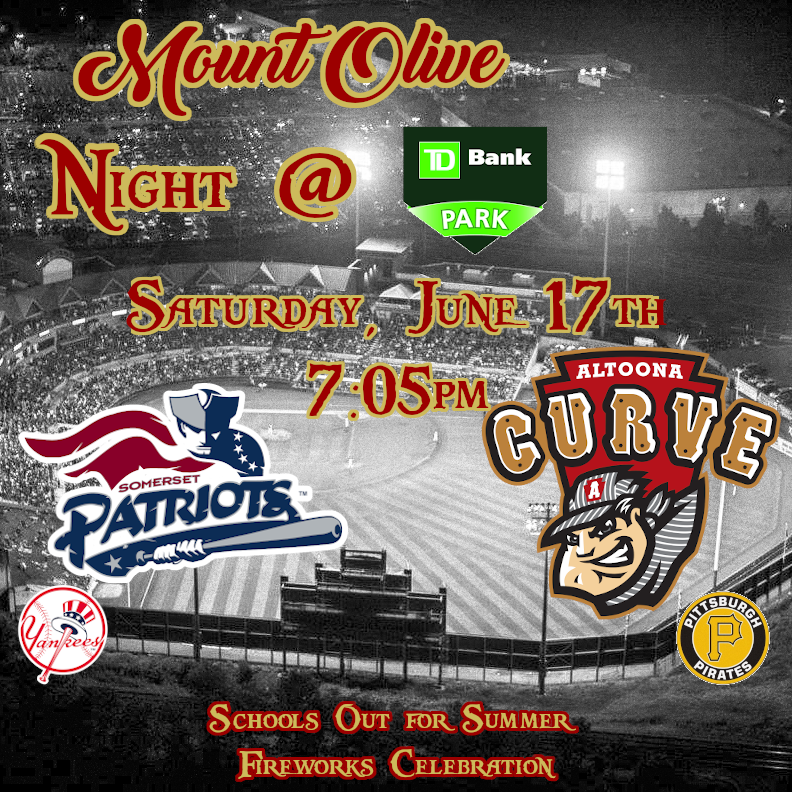
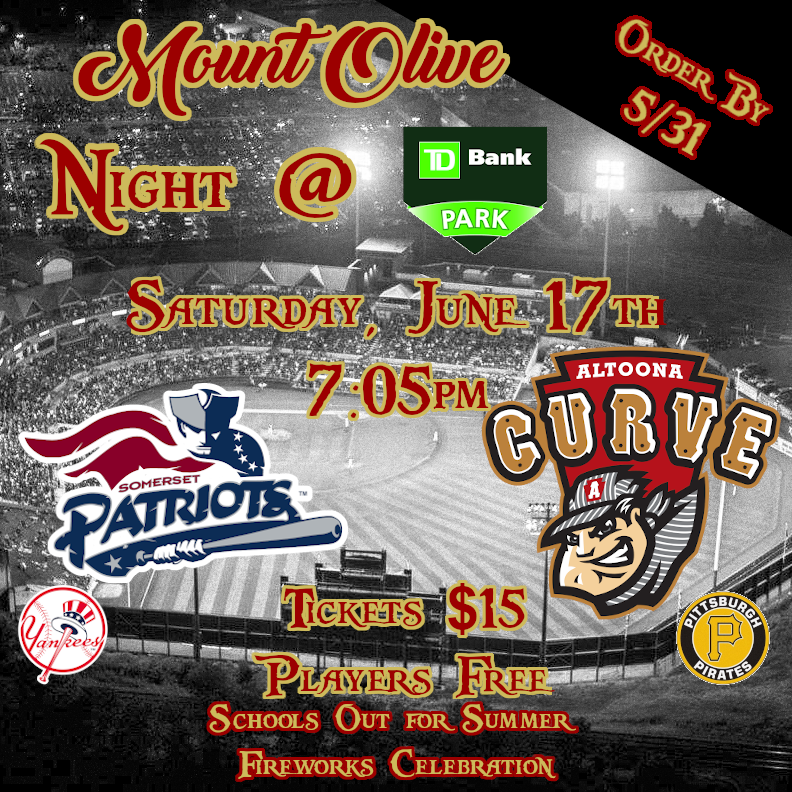
updated for Somerset Patriots tix sales

Changed region(s): [[0.4848, 0.0, 1.0, 0.303], [0.303, 0.7273, 0.697, 0.9091]]

diff --git a/newsletters/20230517/index.html b/newsletters/20230517/index.html
@@ -104,15 +104,16 @@
 										</div>
 										<div class="flip-card-back">
 											<div>
-												<h1>Tickets on Sale Soon!</h1>
+												<h1>Tickets on Sale Now!</h1>
 												<p style="font-weight:bold;">Click for more info!</p>
 											</div>
 										</div>
 									</div>
 								</a>
 								<div class="content">
-									<h3>Save the Date!</h3>
-									<p>Saturday, June 17th @ 7:05pm. MOBSA Somerset Patriot's Game as they face off against the Altoona Curve followed by a School's Out for Summer Fireworks Celebration! <span class="marauder-red news-emphasis-large">Tickets on sale soon!</span></p>
+									<h3>MOBSA Night @ Somerset Patriots</h3>
+									<p>Saturday, June 17th @ 7:05pm. MOBSA Somerset Patriot's Game as they face off against the Altoona Curve followed by a School's Out for Summer Fireworks Celebration!
+										<br/><a href="https://mtolivebsa.sportngin.com/register/form/558121518" target="_blank"><span class="marauder-red news-emphasis-large">Tickets on Sale Now - Order Here</span></a></p>
 									<div class="mobile-only">
 										<div class="live-border-container"><a target="_blank" href="https://mtolivebsa.sportngin.com/event/show/533487200"><div class="live-border"></div></a></div>
 									</div>
@@ -127,7 +128,7 @@
 										</div>
 										<div class="flip-card-back">
 											<div>
-												<h1>Tickets on Sale Soon!</h1>
+												<h1>More details coming soon!</h1>
 												<p style="font-weight:bold;">Click for more info!</p>
 											</div>
 										</div>
